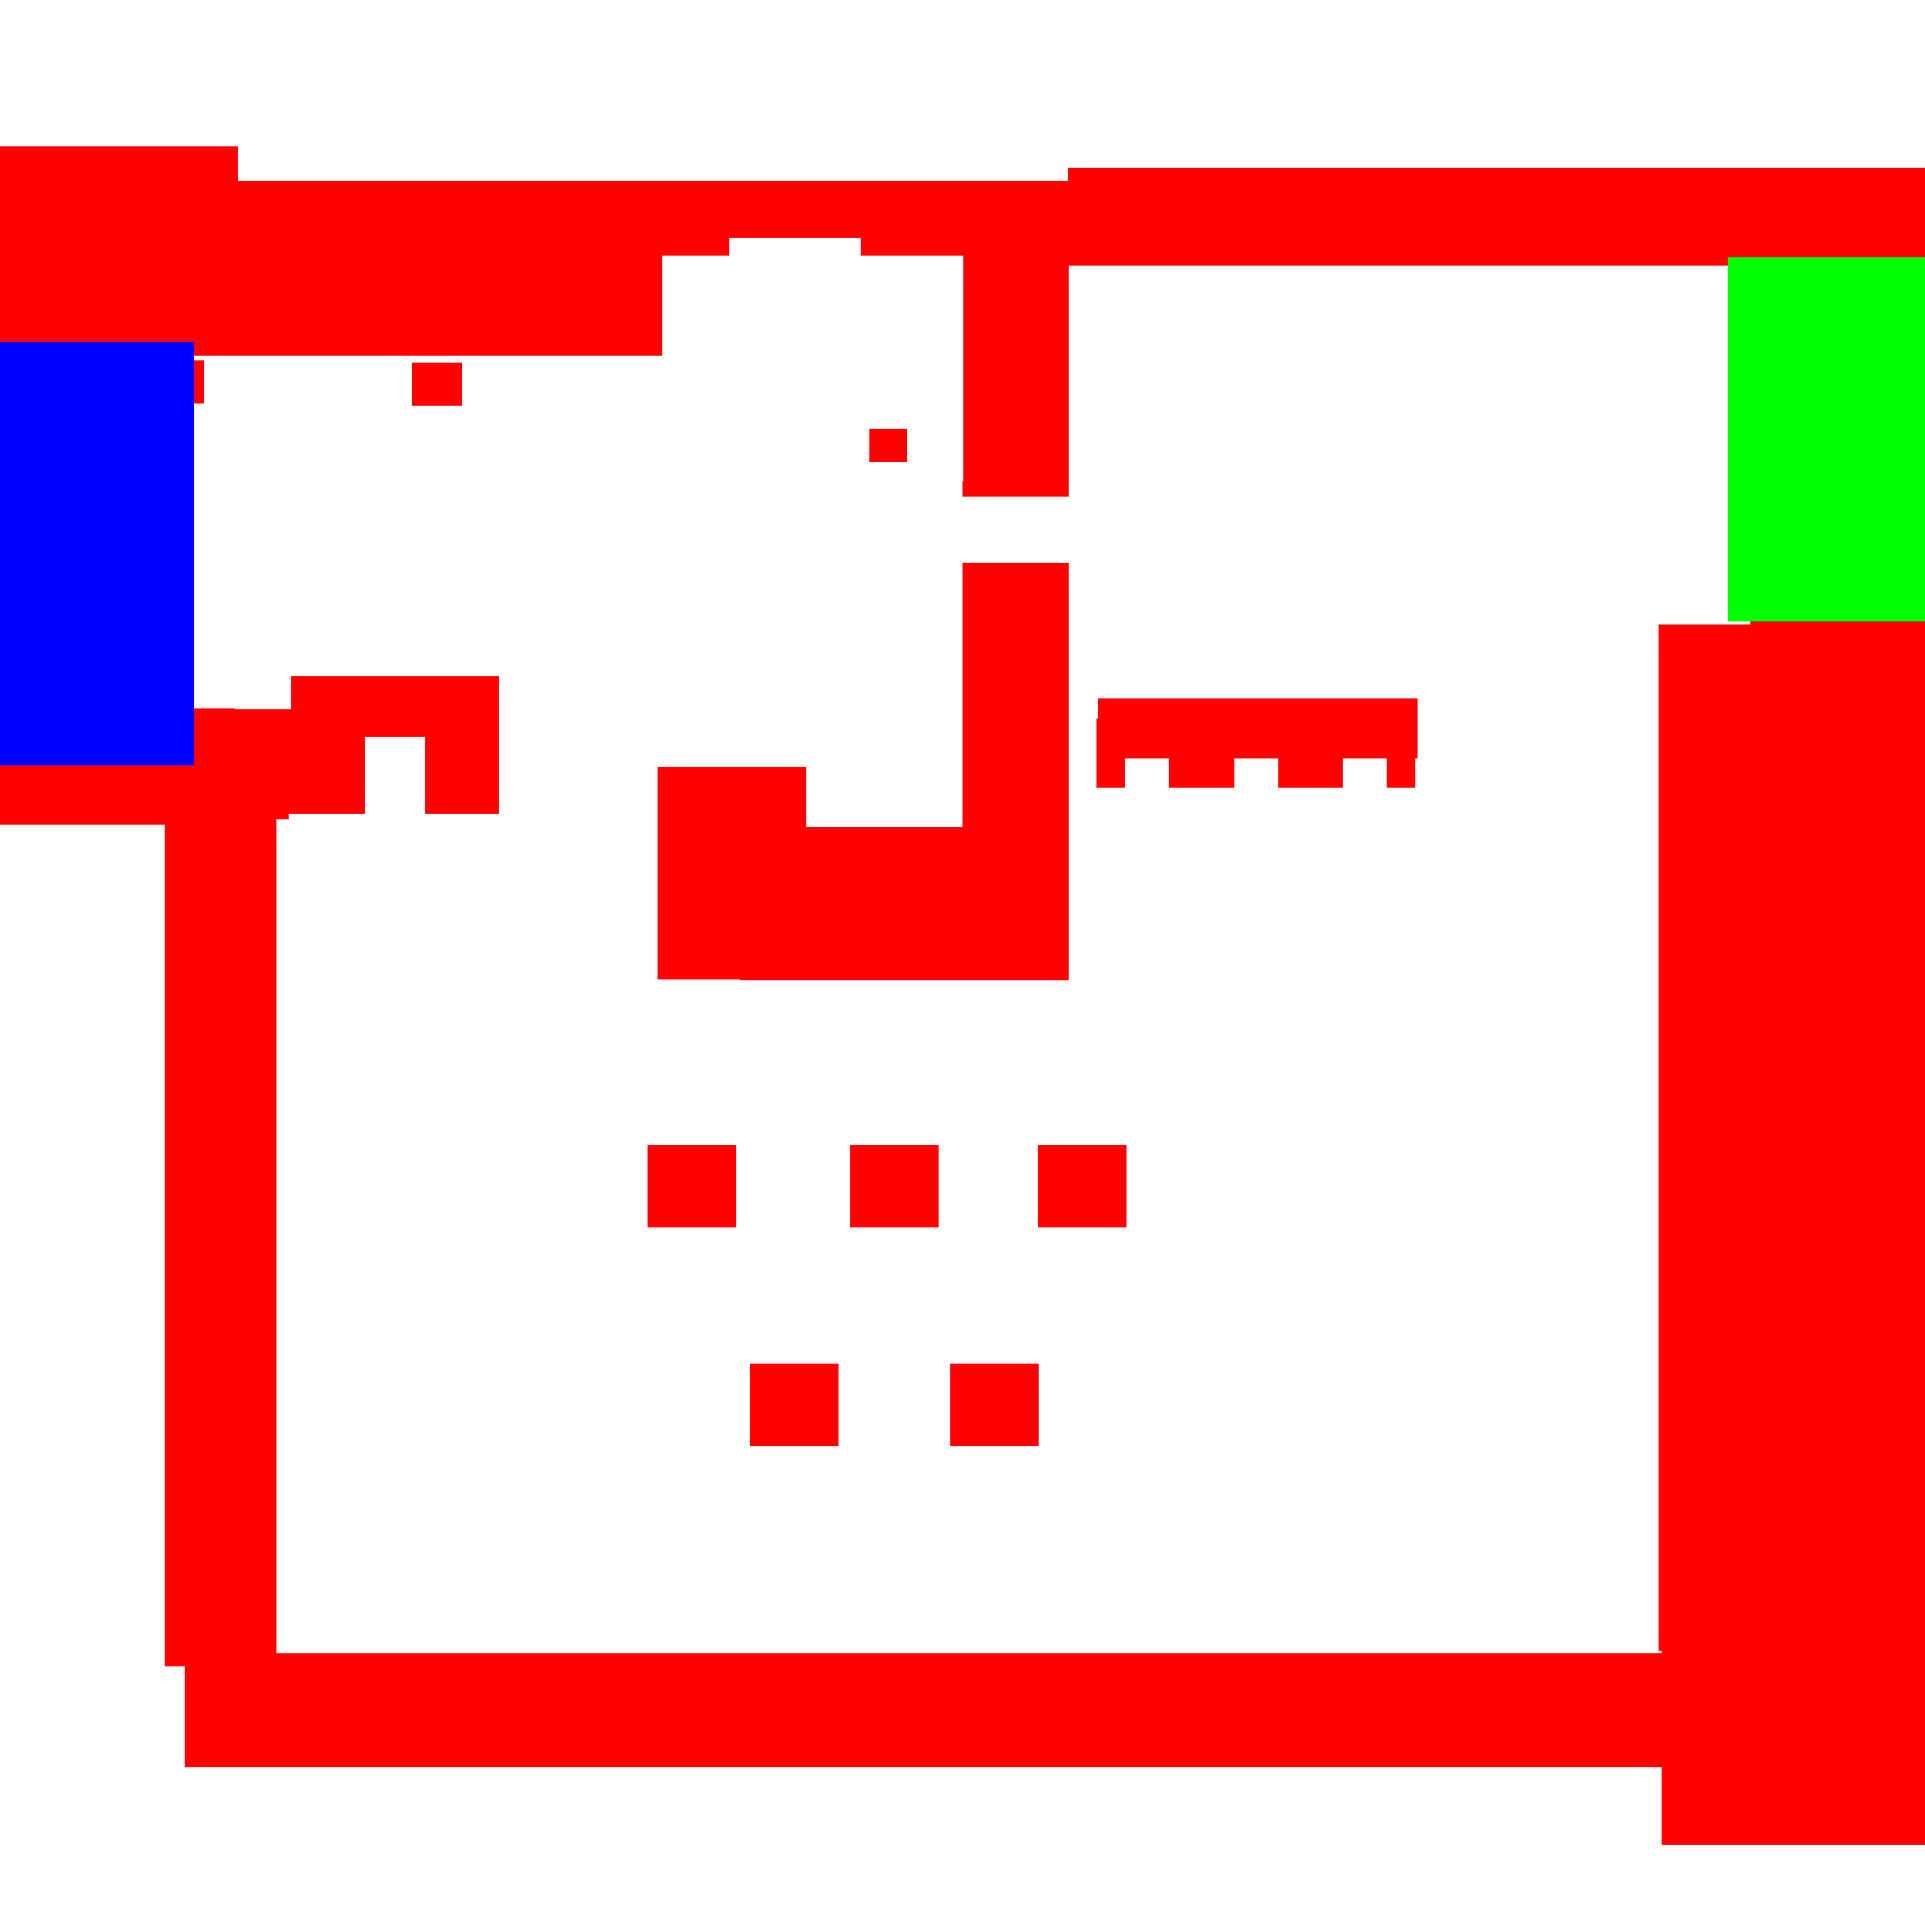
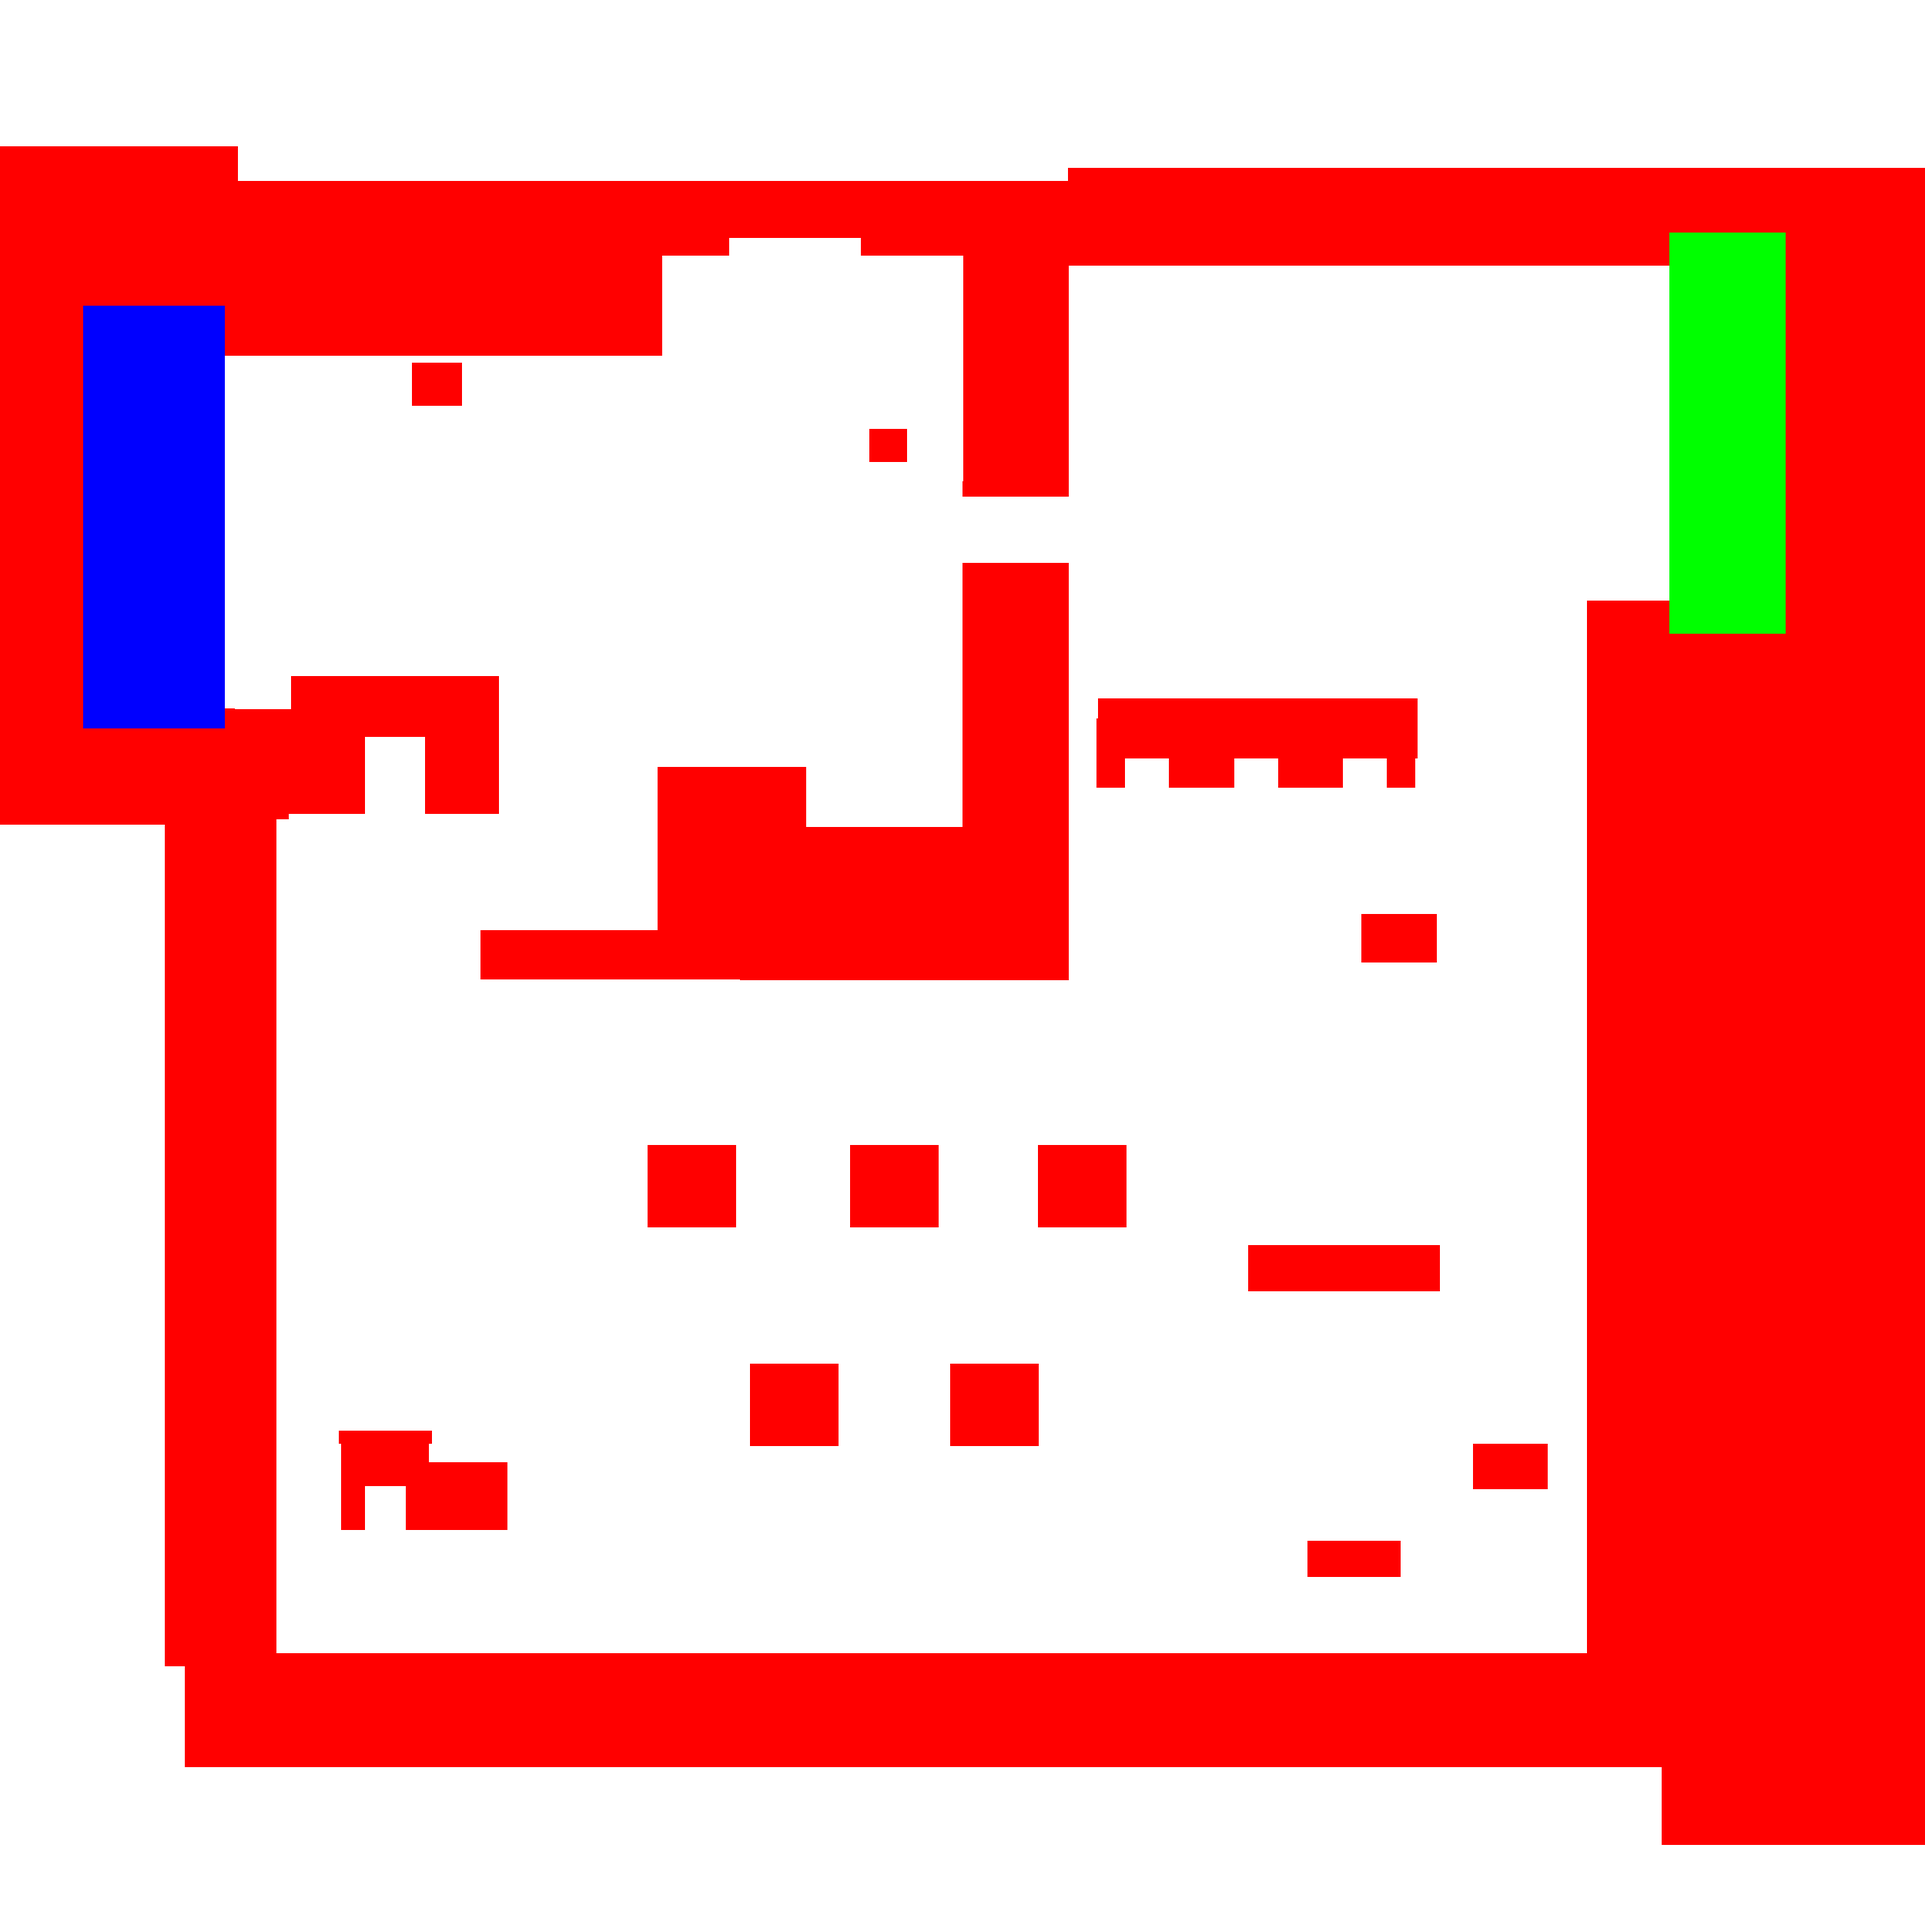
assets/feat: display roofes and add the final map/hiboxes

diff --git a/src/initialize/init_game.c b/src/initialize/init_game.c
@@ -20,17 +20,19 @@ element_t **game_elements(void)
 
     if (!elements)
         return NULL;
-    elements[0] = init_element("assets/forest.jpg", (sfVector2f){0, 0},
+    elements[0] = init_element("assets/village.jpg", (sfVector2f){0, 0},
                             (sfVector2f){1920, 1080}, (sfVector2f){1, 1});
     elements[1] = init_element("assets/0-20.png",
         (sfVector2f){0, 0}, (sfVector2f){805, 1200}, (sfVector2f){0, 0});
     elements[2] = init_element(CROSSBOW_P, (sfVector2f){400, 120},
                                     (sfVector2f){32, 48}, (sfVector2f){2, 2});
-    elements[3] = init_element("assets/forest.jpg", (sfVector2f){1728, 0},
+    elements[3] = init_element("assets/village.jpg", (sfVector2f){1728, 0},
                         (sfVector2f){192, 108}, (sfVector2f){0.0, 0.0});
     elements[4] = init_element(CROSSBOW_P, (sfVector2f){1400, 0},
                         (sfVector2f){1920, 1080}, (sfVector2f){0.00, 0.0});
-    elements[5] = NULL;
+    elements[5] = init_element("assets/toits_village.png", (sfVector2f){0, 0},
+                            (sfVector2f){1920, 1080}, (sfVector2f){1, 1});
+    elements[6] = NULL;
     elements[0]->rect = (sfIntRect){0, 0, 1920, 1080};
     return elements;
 }

diff --git a/src/display/display_talk_npc.c b/src/display/display_talk_npc.c
@@ -12,6 +12,7 @@
 void display_merchant(game_t *game, npc_t *npc)
 {
     trade_t **trade = get_trade(npc);
+
     game->scenes[NPC].elements[1] = init_element(conc("assets/npc/",
         conc(npc->name, ".png")), (sfVector2f){100, 150}, (sfVector2f){32, 48},
         (sfVector2f){8, 8});

diff --git a/src/display/display_npc.c b/src/display/display_npc.c
@@ -64,4 +64,5 @@ void display_npc(game_t *game)
     for (int i = 0; game->scenes[GAME].npc[i] != NULL; i++) {
         draw_npc(game, game->scenes[GAME].npc[i]);
     }
+    draw_element(game->window, game->scenes[GAME].elements[5]);
 }
